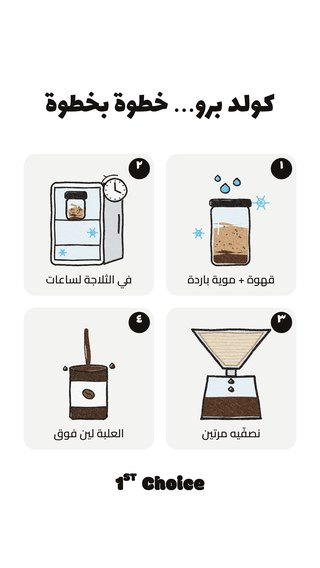
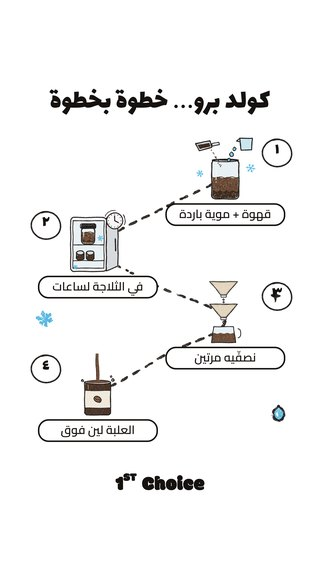
2.41.0: hand-drawn explainer v2 (seamless carousel path, new drawings) + 3 new explainers
Claude-Session: https://claude.ai/code/session_01Gy5UJoUhsSzgMnaLbNjirq

Changed region(s): [[0.4062, 0.2394, 0.9375, 0.7782], [0.0938, 0.2694, 0.5312, 0.7782], [0.125, 0.1496, 0.875, 0.2095]]

diff --git a/brands/1stchoice/packs/dec26/pack.js b/brands/1stchoice/packs/dec26/pack.js
@@ -35,14 +35,39 @@ Studio.registerPack({
     {"id": "dec26-blob-lilac", "label": "Crayon blob, lilac", "file": "packs/dec26/assets/blob-lilac.webp", "prev": "packs/dec26/prev/blob-lilac.webp", "group": "December · crayon", "noFlip": true},
     {"id": "dec26-blob-mint", "label": "Crayon blob, mint", "file": "packs/dec26/assets/blob-mint.webp", "prev": "packs/dec26/prev/blob-mint.webp", "group": "December · crayon", "noFlip": true},
     {"id": "dec26-blob-yellow", "label": "Crayon blob, yellow", "file": "packs/dec26/assets/blob-yellow.webp", "prev": "packs/dec26/prev/blob-yellow.webp", "group": "December · crayon", "noFlip": true},
-    {"id": "dec26-draw-jar", "label": "Drawing · coffee + cold water jar", "file": "packs/dec26/assets/draw-jar.webp", "prev": "packs/dec26/prev/draw-jar.webp", "group": "Cold brew explainer", "noFlip": true},
-    {"id": "dec26-draw-fridge", "label": "Drawing · fridge + clock", "file": "packs/dec26/assets/draw-fridge.webp", "prev": "packs/dec26/prev/draw-fridge.webp", "group": "Cold brew explainer", "noFlip": true},
-    {"id": "dec26-draw-filter", "label": "Drawing · felt filter", "file": "packs/dec26/assets/draw-filter.webp", "prev": "packs/dec26/prev/draw-filter.webp", "group": "Cold brew explainer", "noFlip": true},
-    {"id": "dec26-draw-can", "label": "Drawing · can filled to the top", "file": "packs/dec26/assets/draw-can.webp", "prev": "packs/dec26/prev/draw-can.webp", "group": "Cold brew explainer", "noFlip": true},
-    {"id": "dec26-draw-cold", "label": "Drawing · cold brew jar", "file": "packs/dec26/assets/draw-cold.webp", "prev": "packs/dec26/prev/draw-cold.webp", "group": "Cold brew explainer", "noFlip": true},
-    {"id": "dec26-draw-hot", "label": "Drawing · hot coffee + ice", "file": "packs/dec26/assets/draw-hot.webp", "prev": "packs/dec26/prev/draw-hot.webp", "group": "Cold brew explainer", "noFlip": true},
+    {"id": "dec26-draw-jar", "label": "Drawing · coffee + cold water jar", "file": "packs/dec26/assets/draw-jar.webp", "prev": "packs/dec26/prev/draw-jar.webp", "group": "Cold brew explainer", "noFlip": true, "hidden": true},
+    {"id": "dec26-draw-fridge", "label": "Drawing · fridge + clock", "file": "packs/dec26/assets/draw-fridge.webp", "prev": "packs/dec26/prev/draw-fridge.webp", "group": "Cold brew explainer", "noFlip": true, "hidden": true},
+    {"id": "dec26-draw-filter", "label": "Drawing · felt filter", "file": "packs/dec26/assets/draw-filter.webp", "prev": "packs/dec26/prev/draw-filter.webp", "group": "Cold brew explainer", "noFlip": true, "hidden": true},
+    {"id": "dec26-draw-can", "label": "Drawing · can filled to the top", "file": "packs/dec26/assets/draw-can.webp", "prev": "packs/dec26/prev/draw-can.webp", "group": "Cold brew explainer", "noFlip": true, "hidden": true},
+    {"id": "dec26-draw-cold", "label": "Drawing · cold brew jar", "file": "packs/dec26/assets/draw-cold.webp", "prev": "packs/dec26/prev/draw-cold.webp", "group": "Cold brew explainer", "noFlip": true, "hidden": true},
+    {"id": "dec26-draw-hot", "label": "Drawing · hot coffee + ice", "file": "packs/dec26/assets/draw-hot.webp", "prev": "packs/dec26/prev/draw-hot.webp", "group": "Cold brew explainer", "noFlip": true, "hidden": true},
     {"id": "dec26-arrow-curve", "label": "Crayon arrow (curve)", "file": "packs/dec26/assets/arrow-curve.webp", "prev": "packs/dec26/prev/arrow-curve.webp", "group": "Cold brew explainer", "noFlip": false},
-    {"id": "dec26-arrow-swoop", "label": "Crayon arrow (swoop)", "file": "packs/dec26/assets/arrow-swoop.webp", "prev": "packs/dec26/prev/arrow-swoop.webp", "group": "Cold brew explainer", "noFlip": false}
+    {"id": "dec26-arrow-swoop", "label": "Crayon arrow (swoop)", "file": "packs/dec26/assets/arrow-swoop.webp", "prev": "packs/dec26/prev/arrow-swoop.webp", "group": "Cold brew explainer", "noFlip": false},
+    {"id": "dec26-d2-pour", "label": "Drawing · coffee + cold water into the jar", "file": "packs/dec26/assets/d2-pour.webp", "prev": "packs/dec26/prev/d2-pour.webp", "group": "Cold brew explainer", "noFlip": true},
+    {"id": "dec26-d2-fridge", "label": "Drawing · fridge with jar, cans and clock", "file": "packs/dec26/assets/d2-fridge.webp", "prev": "packs/dec26/prev/d2-fridge.webp", "group": "Cold brew explainer", "noFlip": true},
+    {"id": "dec26-d2-filter", "label": "Drawing · two felt filters", "file": "packs/dec26/assets/d2-filter.webp", "prev": "packs/dec26/prev/d2-filter.webp", "group": "Cold brew explainer", "noFlip": true},
+    {"id": "dec26-d2-can", "label": "Drawing · can filled to the top", "file": "packs/dec26/assets/d2-can.webp", "prev": "packs/dec26/prev/d2-can.webp", "group": "Cold brew explainer", "noFlip": true},
+    {"id": "dec26-d2-cold", "label": "Drawing · cold brew jar", "file": "packs/dec26/assets/d2-cold.webp", "prev": "packs/dec26/prev/d2-cold.webp", "group": "Cold brew explainer", "noFlip": true},
+    {"id": "dec26-d2-hot", "label": "Drawing · hot coffee + ice", "file": "packs/dec26/assets/d2-hot.webp", "prev": "packs/dec26/prev/d2-hot.webp", "group": "Cold brew explainer", "noFlip": true},
+    {"id": "dec26-d2-shop", "label": "Drawing · shop", "file": "packs/dec26/assets/d2-shop.webp", "prev": "packs/dec26/prev/d2-shop.webp", "group": "Cold brew explainer", "noFlip": true},
+    {"id": "dec26-d2-chat", "label": "Drawing · chat bubbles", "file": "packs/dec26/assets/d2-chat.webp", "prev": "packs/dec26/prev/d2-chat.webp", "group": "Cold brew explainer", "noFlip": true},
+    {"id": "dec26-d2-calendar", "label": "Drawing · calendar page", "file": "packs/dec26/assets/d2-calendar.webp", "prev": "packs/dec26/prev/d2-calendar.webp", "group": "Cold brew explainer", "noFlip": true},
+    {"id": "dec26-d2-van", "label": "Drawing · delivery van", "file": "packs/dec26/assets/d2-van.webp", "prev": "packs/dec26/prev/d2-van.webp", "group": "Cold brew explainer", "noFlip": true},
+    {"id": "dec26-d2-flake", "label": "Drawing · big snowflake", "file": "packs/dec26/assets/d2-flake.webp", "prev": "packs/dec26/prev/d2-flake.webp", "group": "Cold brew explainer", "noFlip": true},
+    {"id": "dec26-d2-highlight", "label": "Crayon highlight (yellow)", "file": "packs/dec26/assets/d2-highlight.webp", "prev": "packs/dec26/prev/d2-highlight.webp", "group": "Cold brew explainer", "noFlip": true},
+    {"id": "dec26-d2-underline", "label": "Crayon underline", "file": "packs/dec26/assets/d2-underline.webp", "prev": "packs/dec26/prev/d2-underline.webp", "group": "Cold brew explainer", "noFlip": true},
+    {"id": "dec26-d2-circle", "label": "Crayon circle", "file": "packs/dec26/assets/d2-circle.webp", "prev": "packs/dec26/prev/d2-circle.webp", "group": "Cold brew explainer", "noFlip": true},
+    {"id": "dec26-pano-1", "label": "Carousel path · slide 1 of 6", "file": "packs/dec26/assets/pano-1.webp", "prev": "packs/dec26/prev/pano-1.webp", "group": "Cold brew explainer", "noFlip": true},
+    {"id": "dec26-pano-2", "label": "Carousel path · slide 2 of 6", "file": "packs/dec26/assets/pano-2.webp", "prev": "packs/dec26/prev/pano-2.webp", "group": "Cold brew explainer", "noFlip": true},
+    {"id": "dec26-pano-3", "label": "Carousel path · slide 3 of 6", "file": "packs/dec26/assets/pano-3.webp", "prev": "packs/dec26/prev/pano-3.webp", "group": "Cold brew explainer", "noFlip": true},
+    {"id": "dec26-pano-4", "label": "Carousel path · slide 4 of 6", "file": "packs/dec26/assets/pano-4.webp", "prev": "packs/dec26/prev/pano-4.webp", "group": "Cold brew explainer", "noFlip": true},
+    {"id": "dec26-pano-5", "label": "Carousel path · slide 5 of 6", "file": "packs/dec26/assets/pano-5.webp", "prev": "packs/dec26/prev/pano-5.webp", "group": "Cold brew explainer", "noFlip": true},
+    {"id": "dec26-pano-6", "label": "Carousel path · slide 6 of 6", "file": "packs/dec26/assets/pano-6.webp", "prev": "packs/dec26/prev/pano-6.webp", "group": "Cold brew explainer", "noFlip": true},
+    {"id": "dec26-zigzag", "label": "Story path · 4 steps", "file": "packs/dec26/assets/zigzag.webp", "prev": "packs/dec26/prev/zigzag.webp", "group": "Cold brew explainer", "noFlip": true},
+    {"id": "dec26-arrow-left", "label": "Crayon arrow (left)", "file": "packs/dec26/assets/arrow-left.webp", "prev": "packs/dec26/prev/arrow-left.webp", "group": "Cold brew explainer", "noFlip": true},
+    {"id": "dec26-arrow-swoop-l", "label": "Crayon arrow (swoop left)", "file": "packs/dec26/assets/arrow-swoop-l.webp", "prev": "packs/dec26/prev/arrow-swoop-l.webp", "group": "Cold brew explainer", "noFlip": true},
+    {"id": "dec26-arrow-up", "label": "Crayon arrow (up right)", "file": "packs/dec26/assets/arrow-up.webp", "prev": "packs/dec26/prev/arrow-up.webp", "group": "Cold brew explainer", "noFlip": true},
+    {"id": "dec26-arrow-up-l", "label": "Crayon arrow (up left)", "file": "packs/dec26/assets/arrow-up-l.webp", "prev": "packs/dec26/prev/arrow-up-l.webp", "group": "Cold brew explainer", "noFlip": true}
   ],
   templates:[],
   reels:[],

diff --git a/sw.js b/sw.js
@@ -5,7 +5,7 @@
    - Supabase (sign-in, saved designs, team photos) is NEVER cached: those requests go straight to the network.
    - Share target (Android, installed app): photos shared from the gallery arrive as a POST to ./share-target; they wait in
      IndexedDB ('studio' › 'files' › 'studio:shared', the same store studio.js uses) and the hub opens a "pick a tool" sheet. */
-const VERSION='studio-v2-40-0';   // Studio 2.40.0
+const VERSION='studio-v2-41-0';   // Studio 2.41.0
 const SHELL=[
   './','index.html','manifest.webmanifest','whats-new.html','assets/whatsnew.css','assets/whatsnew.js','studio-notes/changelog.md',
   'assets/studio.css','assets/studio.js','assets/search.css','assets/search.js','assets/back.js','assets/templates.css','assets/templates.js','assets/batch.js','assets/stickers.js','assets/welcome.css','assets/welcome.js','assets/cloud.js','assets/config.js','assets/vendor/supabase.js',

diff --git a/assets/studio.js b/assets/studio.js
@@ -13,7 +13,7 @@ const PHOTO_MAX_PX=12e6; // a photo is kept at full quality up to 12 megapixels 
 const LS_OK=(()=>{ try{ return 'letterSpacing' in document.createElement('canvas').getContext('2d'); }catch(_){ return false; } })();
 const PIN=new Path2D("M128 16a88.1 88.1 0 0 0-88 88c0 75.3 80 132.17 83.41 134.55a8 8 0 0 0 9.18 0C136 236.17 216 179.3 216 104a88.1 88.1 0 0 0-88-88Zm0 56a32 32 0 1 1-32 32a32 32 0 0 1 32-32Z");
 /* Studio's version: semantic (fix = 0.1.1, feature = 0.2.0). The What's New page (whats-new.html) shows the notes from studio-notes/changelog.md. */
-const VERSION='2.40.0';
+const VERSION='2.41.0';
 const ROOT=(document.currentScript&&document.currentScript.src)?document.currentScript.src.replace(/assets\/studio\.js.*$/,''):'../';
 const BRANDS={};
 /* installable app: the service worker caches the app shell (never Supabase calls) */

diff --git a/studio-notes/changelog.md b/studio-notes/changelog.md
@@ -13,6 +13,17 @@ The What's New page in Studio (`whats-new.html`) reads this file. Keep the forma
 
 How the page shows it, with no extra work: the newest version is the hero card at the top (version, date, its lead line as the summary, its changes grouped New / Improved / Fixed with an icon heading; if there is no lead line, the card titles are joined instead). So give every version a short plain lead line right under its `##` heading. Older versions are one row each (version, date, one-line summary, chips such as "3 new · 2 fixed"); one tap opens it and shows every change with its note and screenshots at once (no nested sections). One filter row (All, New, Improved, Fixed) filters every version. `whats-new.html#v-2.3.0` opens that version.
 
+## 2.41.0 · 28 Nov 2026
+The cold brew explainer, redrawn, plus three new hand-drawn explainers.
+
+### Hand-drawn explainer drawings, version 2
+type: feature
+Add asset → Cold brew explainer has new crayon drawings: coffee and cold water going into the jar, the fridge with the jar, cans and a clock, two felt filters, a can filled to the top, a shop, chat bubbles, a calendar page, a delivery van, a big snowflake, plus a crayon highlight, underline, circle and four more arrows. The carousel has one hand-drawn path that runs across all six slides, so swiping feels like one long drawing.
+
+### New ready designs
+type: feature
+In Saved → December · hoodie cat: the "What is cold brew?" carousel, the comparison post and its stories are redone with the new drawings, and there are 6 new designs: what "cold brew" means (COLD = بارد, BREW = تخمير), what's in your can (callouts around the can) and how your can reaches you (sale points, or a direct order in 4 days, pickup or delivery). Older explainer drawings are hidden from Add asset but still work in old designs.
+
 ## 2.40.0 · 28 Nov 2026
 Hand-drawn cold brew explainer, Got Talent reminders and a true-or-false quiz.
 
